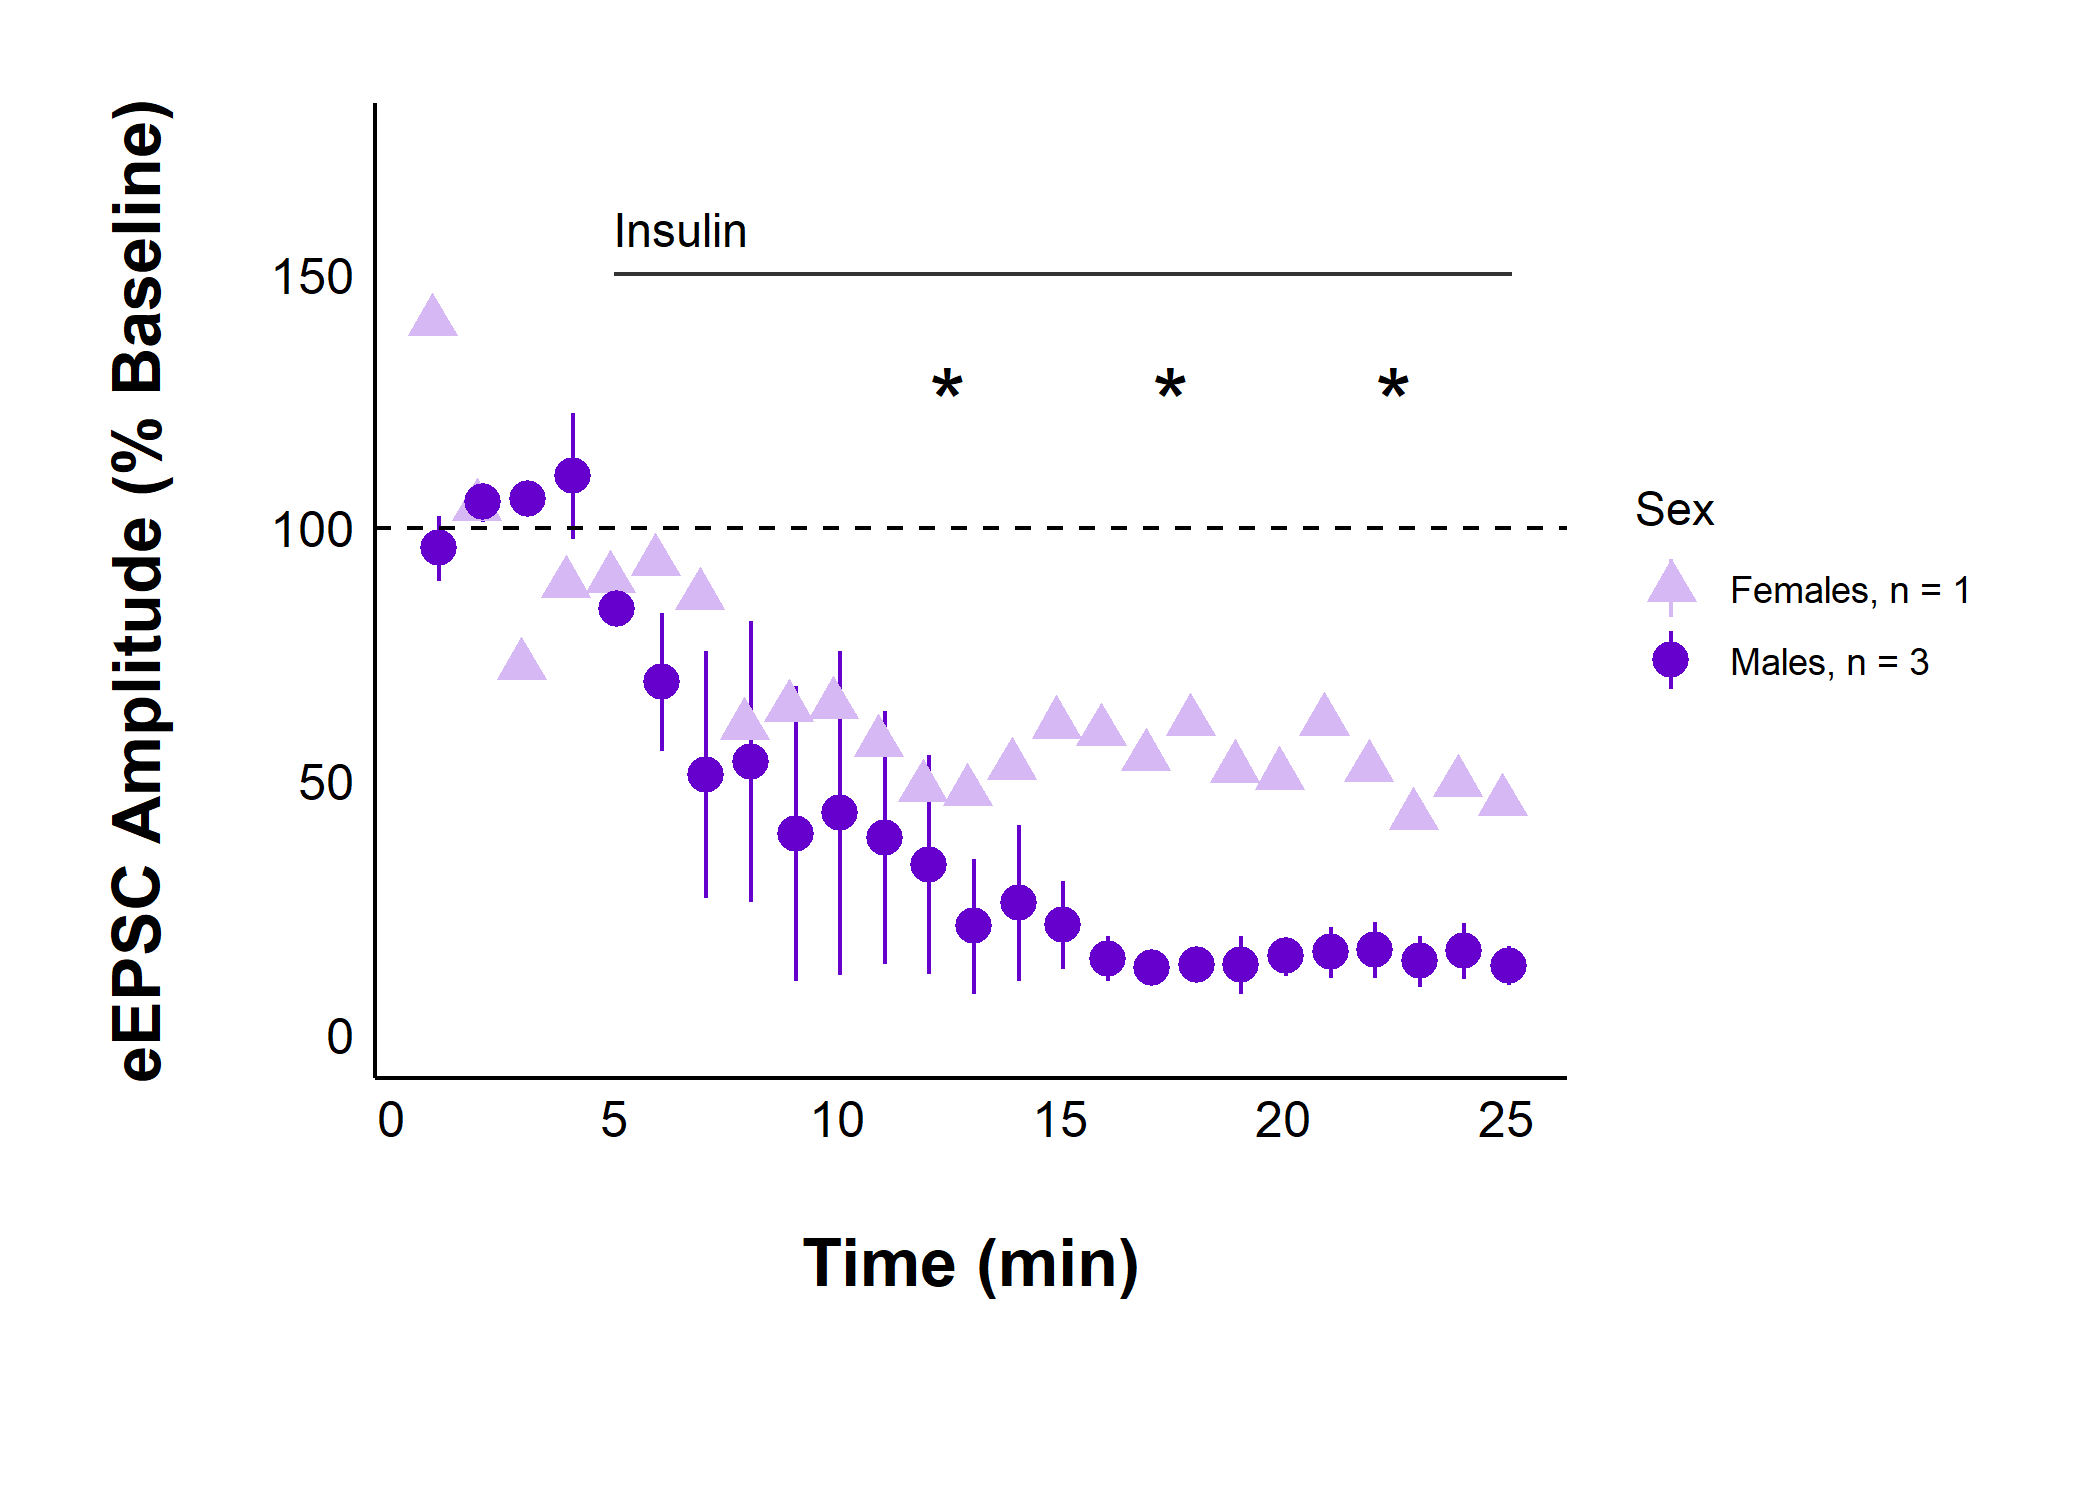
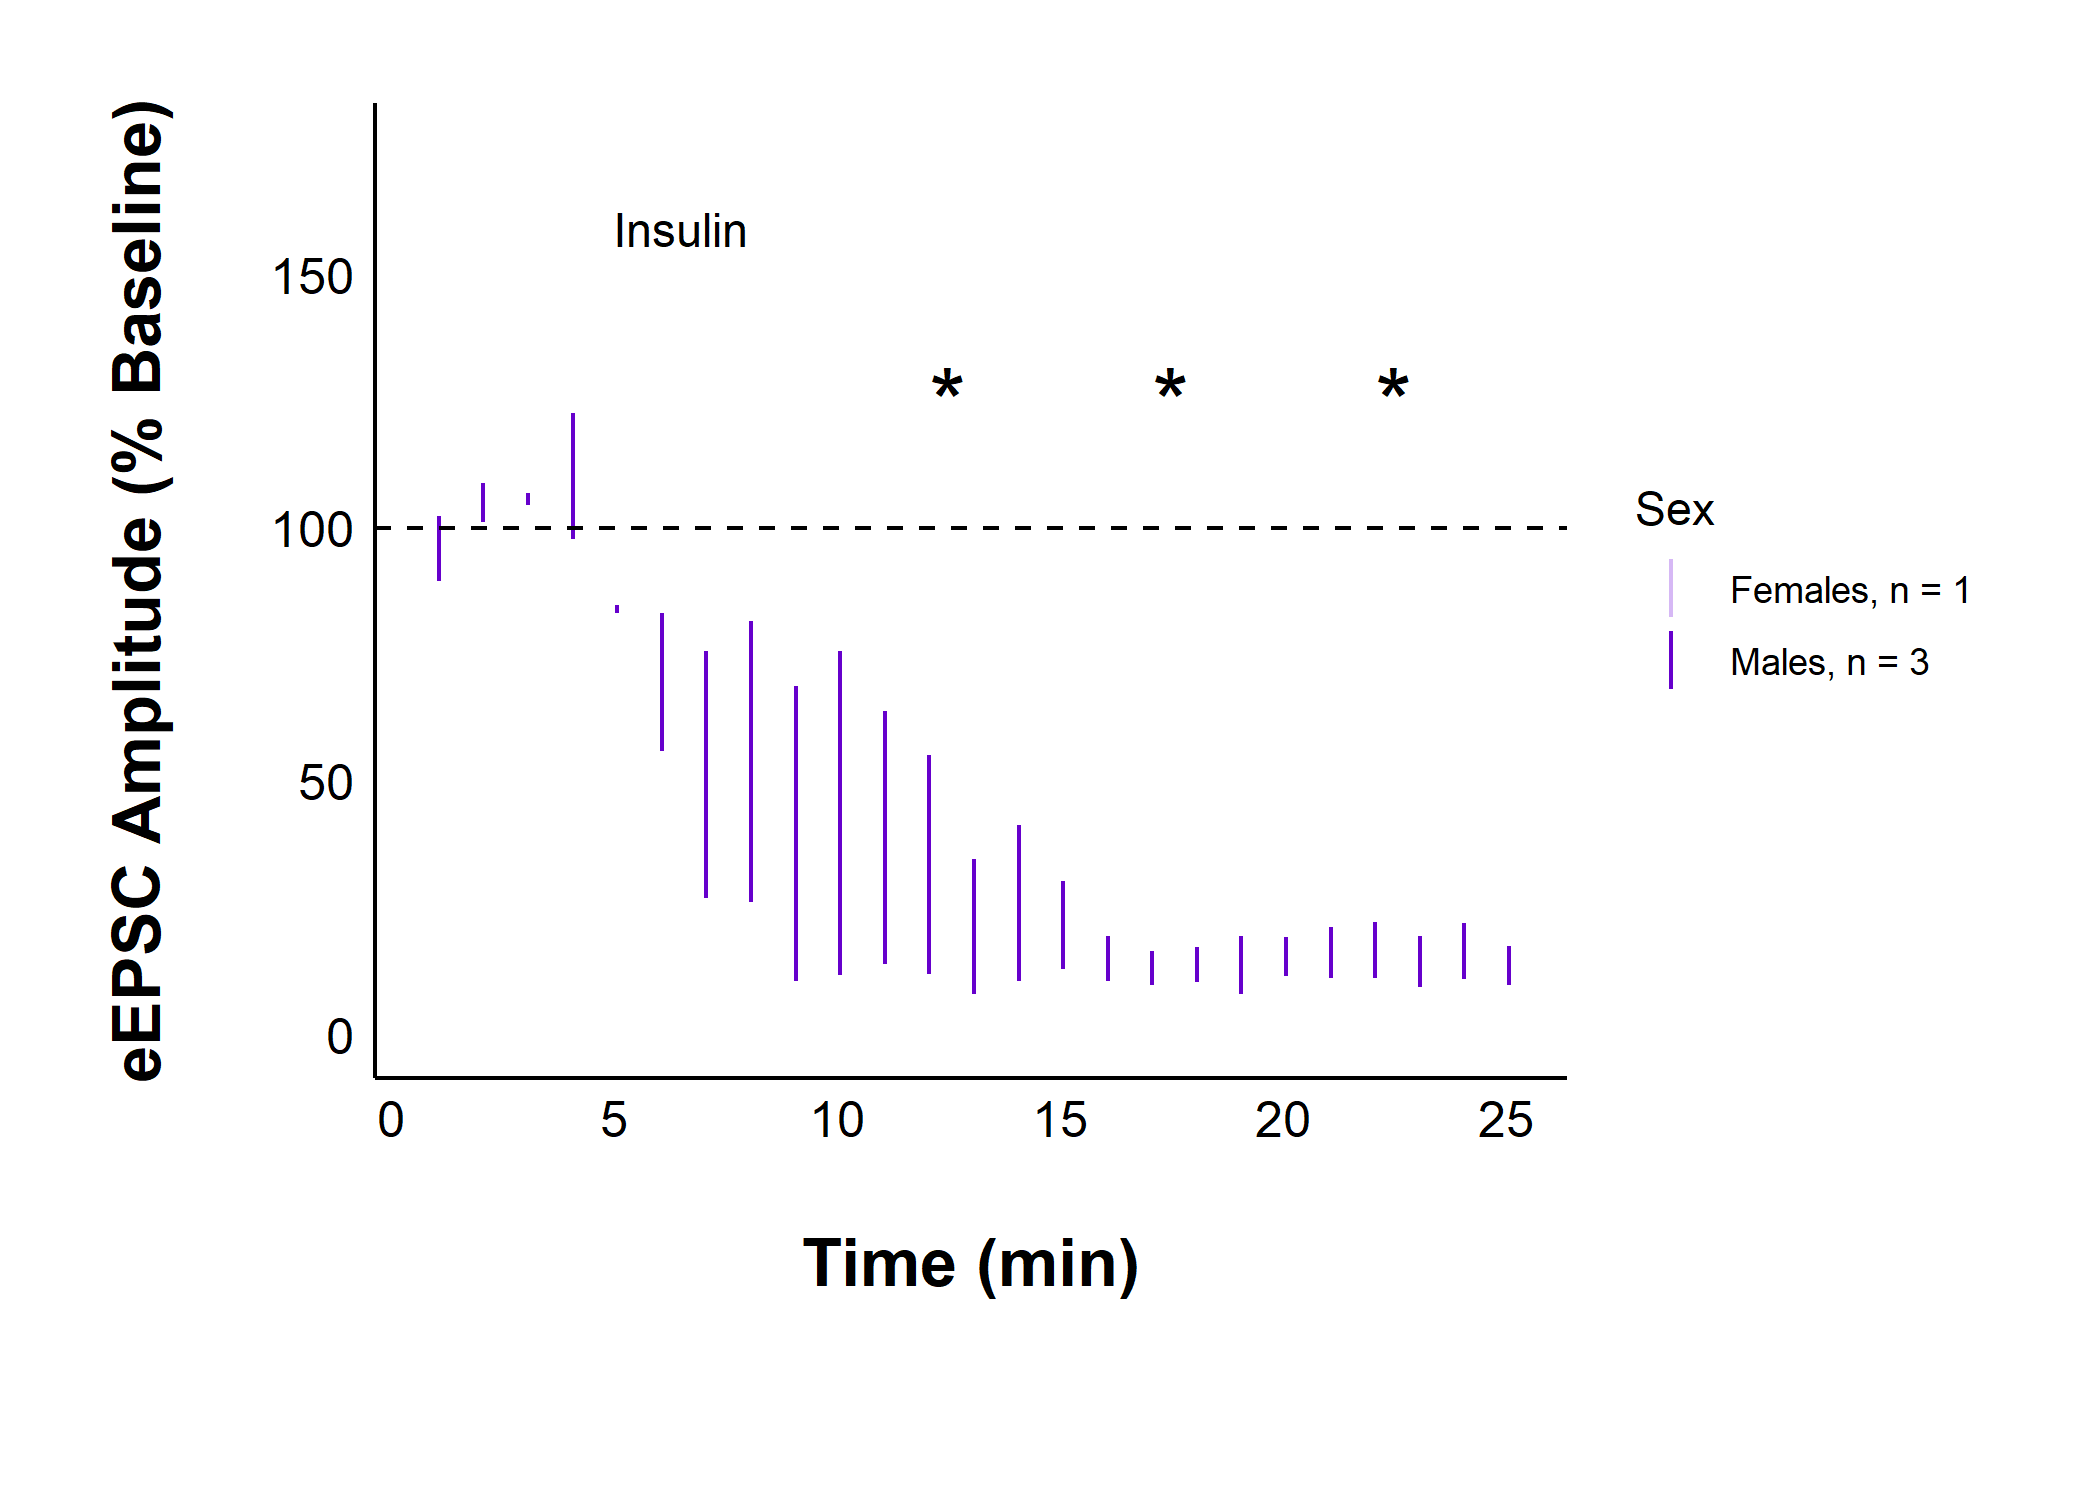
Fixed issue with new sample_theme_options not showing data points because the option column was not stored as rownames.

diff --git a/README.md b/README.md
@@ -45,6 +45,8 @@ raw_eEPSC_control_plots <- plot_raw_current_data(
 )
 
 raw_eEPSC_control_plots$AO
+#> Warning: Removed 301 rows containing missing values or values outside the scale range
+#> (`geom_point()`).
 ```
 
 <img src="man/figures/README-example-raw-eEPSC-plot-1.png" width="100%" />
@@ -59,7 +61,7 @@ plot_summary_current_data(
   current_type = "eEPSC",
   parameter = "amplitude",
   include_representative_trace = "no",
-  #y_axis_limit = 175,
+  y_axis_limit = 175,
   signif_stars = "yes",
   t_test_df = sample_eEPSC_t_test_df,
   hormone_added = "Insulin",
